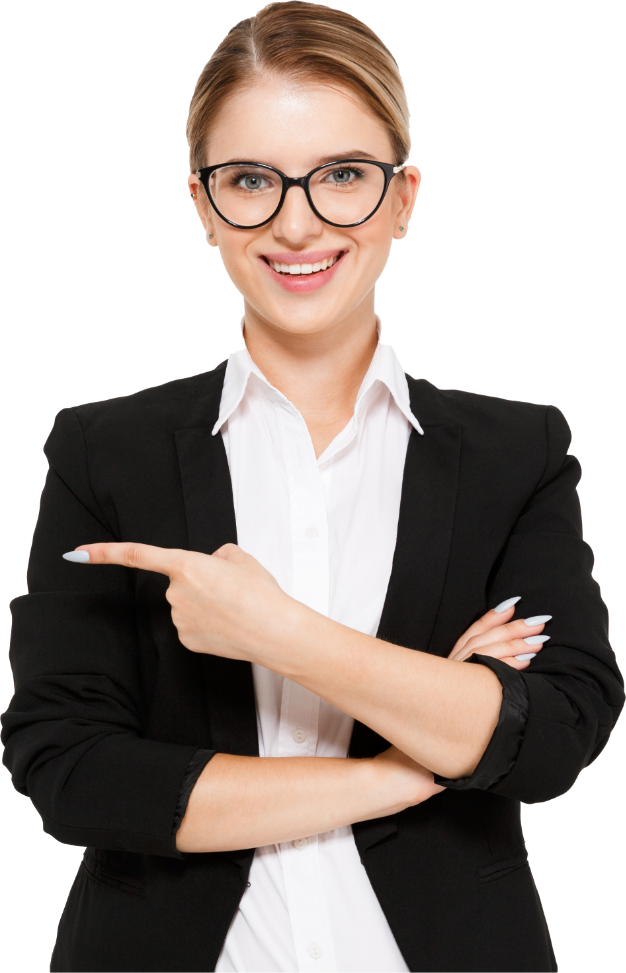
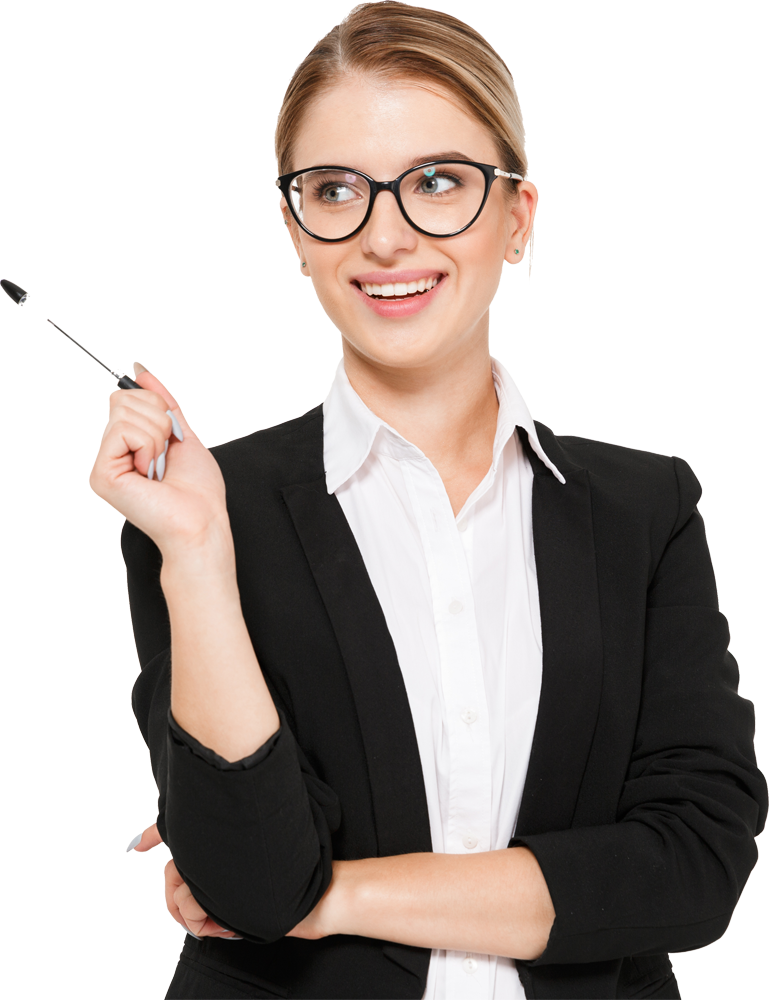
Hero section images are updated

diff --git a/demo/category/retirement.html b/demo/category/retirement.html
@@ -135,26 +135,25 @@
       </div>
     </nav>
   </div>
-  <section class="bg-primary-alt text-center has-divider header-desktop-app">
-    <div class="container">
-      <div class="row justify-content-center">
-        <div class="col-md-11 text-center">
-            <h1 class="display-4 text-primary ">Retirement Planning</h1>
-            <p class="lead text-black-50">Plan your retirement life with our valuable investing plans</p>
-           
-          </div>
-      </div>
-      <div class="row justify-content-center mt-6 aos-init aos-animate" data-aos="fade-up" data-delay="100">
-        <div class="col-lg-10">
-          <img src="../assets/img/mong/retirement-hero.jpg" alt="Image" class="rounded shadow-lg">
+
+  <section class="bg-primary-alt pt-3 pb-0">
+    <!-- <img src="assets/img/mong/hero-advisor-img.png" alt="Image" class="hero_image"> -->
+    <div class="container pt-1">
+      <div class="row align-items-center justify-content-between o-hidden">
+        <!-- <div class="col-md-6 order-sm-2 mb-5 mb-sm-0" data-aos="fade-left">
+          <img src="assets/img/mong/hero-banner.png" alt="Image">
+        </div> -->
+        <div class="col-md-6 pr-xl-5 order-sm-1 text-center text-lg-left text-md-left">
+          <h1 class="display-4 text-primary">Retirement Planning</h1>
+          <p class="lead text-black-50 w-75">Plan your retirement life with our valuable investing plans</p>
+         
+        </div>
+        <div class="col-md-6 order-sm-2">
+          <img src="../assets/img/mong/retirement-hero.png" alt="Image" class="">
         </div>
       </div>
     </div>
-    <div class="divider">
-      <svg width="100%" height="96px" viewBox="0 0 100 100" version="1.1" xmlns="http://www.w3.org/2000/svg" xmlns:xlink="http://www.w3.org/1999/xlink" preserveAspectRatio="none">
-        <path d="M0,0 C16.6666667,66 33.3333333,99 50,99 C66.6666667,99 83.3333333,66 100,0 L100,100 L0,100 L0,0 Z"></path>
-      </svg>
-    </div>
+   
   </section>
 
   <section class="pb-0 pb-md-6  position-relative">
@@ -347,7 +346,7 @@
       </div>
   </section>
 
-  <section class="bg-primary-3 o-hidden has-divider">
+  <!-- <section class="bg-primary-3 o-hidden has-divider">
     <div class="container pb-4 text-light">
       <div class="row justify-content-center text-center mb-5">
         <div class="col-xl-8 col-lg-9">
@@ -445,7 +444,7 @@
         <path d="M0,0 C16.6666667,66 33.3333333,99 50,99 C66.6666667,99 83.3333333,66 100,0 L100,100 L0,100 L0,0 Z"></path>
       </svg>
     </div>
-  </section>
+  </section> -->
 
   <section class="pb-7 pb-md-6 pt-7">
     <div class="container">
@@ -554,7 +553,7 @@
 
         <div class="col-lg-5 mt-3 mt-lg-0">
           <img src="../assets/img/mong/monietalk-logo.png" alt="Image" class="" style="width: 140px;margin-bottom: 8px;">
-          <p class="" style=" margin-bottom: 10px;"> Our Mission is to help people achieve financial security and maximize wealth. We strive to achieve this by empowering average person to find the right trusted advisor and by providing advanced tools to advisors.</p>
+          <p class="" style=" margin-bottom: 10px;"> Our Mission is to help people achieve financial security and maximize wealth. We strive to achieve this by empowering everyone to find the right trusted advisor and by providing advanced tools to advisors.</p>
           <p class="" >Monietalk and 720 Worldwide Inc are not affiliated of any financial institution.</p>
         </div>
         <div class="col-lg-4 text-justify">

diff --git a/demo/category/insurance.html b/demo/category/insurance.html
@@ -135,26 +135,25 @@
       </div>
     </nav>
   </div>
-  <section class="bg-primary-alt text-center has-divider header-desktop-app">
-    <div class="container">
-      <div class="row justify-content-center">
-        <div class="col-md-11 text-center">
-            <h1 class="display-4 text-primary ">Insurance</h1>
-            <p class="lead text-black-50">Ensure all round protection by a brand trusted by millions!</p>
-           
-          </div>
-      </div>
-      <div class="row justify-content-center mt-6 aos-init aos-animate" data-aos="fade-up" data-delay="100">
-        <div class="col-lg-10">
-          <img src="../assets/img/mong/insurance-hero.jpg" alt="Image" class="rounded shadow-lg">
+
+  <section class="bg-primary-alt pt-3 pb-0">
+    <!-- <img src="assets/img/mong/hero-advisor-img.png" alt="Image" class="hero_image"> -->
+    <div class="container pt-1">
+      <div class="row align-items-center justify-content-between o-hidden">
+        <!-- <div class="col-md-6 order-sm-2 mb-5 mb-sm-0" data-aos="fade-left">
+          <img src="assets/img/mong/hero-banner.png" alt="Image">
+        </div> -->
+        <div class="col-md-6 pr-xl-5 order-sm-1 text-center text-lg-left text-md-left">
+          <h1 class="display-4 text-primary">Insurance</h1>
+          <p class="lead text-black-50 w-75">Ensure all round protection by a brand trusted by millions!</p>
+         
+        </div>
+        <div class="col-md-6 order-sm-2">
+          <img src="../assets/img/mong/insurance-hero.png" alt="Image" class="">
         </div>
       </div>
     </div>
-    <div class="divider">
-      <svg width="100%" height="96px" viewBox="0 0 100 100" version="1.1" xmlns="http://www.w3.org/2000/svg" xmlns:xlink="http://www.w3.org/1999/xlink" preserveAspectRatio="none">
-        <path d="M0,0 C16.6666667,66 33.3333333,99 50,99 C66.6666667,99 83.3333333,66 100,0 L100,100 L0,100 L0,0 Z"></path>
-      </svg>
-    </div>
+   
   </section>
 
   <section class="pb-0 pb-md-6  position-relative">
@@ -347,7 +346,7 @@
       </div>
   </section>
 
-  <section class="bg-primary-3 o-hidden has-divider">
+  <!-- <section class="bg-primary-3 o-hidden has-divider">
     <div class="container pb-4 text-light">
       <div class="row justify-content-center text-center mb-5">
         <div class="col-xl-8 col-lg-9">
@@ -445,7 +444,7 @@
         <path d="M0,0 C16.6666667,66 33.3333333,99 50,99 C66.6666667,99 83.3333333,66 100,0 L100,100 L0,100 L0,0 Z"></path>
       </svg>
     </div>
-  </section>
+  </section> -->
 
   <section class="pb-7 pb-md-6 pt-7">
     <div class="container">
@@ -554,7 +553,7 @@
 
         <div class="col-lg-5 mt-3 mt-lg-0">
           <img src="../assets/img/mong/monietalk-logo.png" alt="Image" class="" style="width: 140px;margin-bottom: 8px;">
-          <p class="" style=" margin-bottom: 10px;"> Our Mission is to help people achieve financial security and maximize wealth. We strive to achieve this by empowering average person to find the right trusted advisor and by providing advanced tools to advisors.</p>
+          <p class="" style=" margin-bottom: 10px;"> Our Mission is to help people achieve financial security and maximize wealth. We strive to achieve this by empowering everyone to find the right trusted advisor and by providing advanced tools to advisors.</p>
           <p class="" >Monietalk and 720 Worldwide Inc are not affiliated of any financial institution.</p>
         </div>
         <div class="col-lg-4 text-justify">

diff --git a/demo/become-associate.html b/demo/become-associate.html
@@ -131,30 +131,25 @@
     </nav>
   </div>
 
-
-  <section class="bg-primary-alt text-light text-center has-divider header-desktop-app">
-    <div class="container">
-      <div class="row justify-content-center">
-        <div class="col-md-11 text-center">
-            <h1 class="display-4 text-primary ">Join a team of motivated planners who care about your growth</h1>
-            <p class="lead text-black-50 ">Join us and be a part of a better model. It stands out because of all the ways it empowers you to overcome barriers, serve your clients, and reach your full potential.</p>
-           
-          </div>
-      </div>
-      <div class="row justify-content-center mt-6 aos-init aos-animate" data-aos="fade-up" data-delay="100">
-        <div class="col-lg-10">
-          <img src="assets/img/mong/banner-meeting.jpg" alt="Image" class="rounded shadow-lg">
+  <section class="bg-primary-alt pt-3 pb-0">
+    <!-- <img src="assets/img/mong/hero-advisor-img.png" alt="Image" class="hero_image"> -->
+    <div class="container pt-1">
+      <div class="row align-items-center justify-content-between o-hidden">
+        <!-- <div class="col-md-6 order-sm-2 mb-5 mb-sm-0" data-aos="fade-left">
+          <img src="assets/img/mong/hero-banner.png" alt="Image">
+        </div> -->
+        <div class="col-md-7 pr-xl-5 order-sm-1 text-center text-lg-left text-md-left">
+          <h1 class="display-4 text-primary">Join a team of motivated planners who care about your growth</h1>
+          <p class="lead text-black-50 w-75">Join us and be a part of a better model. It stands out because of all the ways it empowers you to overcome barriers, serve your clients, and reach your full potential.</p>
+         
+        </div>
+        <div class="col-md-5 order-sm-2">
+          <img src="assets/img/mong/become-advisor-hero1.png" alt="Image" class="mt-5">
         </div>
       </div>
     </div>
-    <div class="divider">
-      <svg width="100%" height="96px" viewBox="0 0 100 100" version="1.1" xmlns="http://www.w3.org/2000/svg" xmlns:xlink="http://www.w3.org/1999/xlink" preserveAspectRatio="none">
-        <path d="M0,0 C16.6666667,66 33.3333333,99 50,99 C66.6666667,99 83.3333333,66 100,0 L100,100 L0,100 L0,0 Z"></path>
-      </svg>
-    </div>
+   
   </section>
-
-
 
   <section class="position-relative" id="benefits">
    
@@ -373,7 +368,7 @@
 
         <div class="col-lg-5 mt-3 mt-lg-0">
           <img src="assets/img/mong/monietalk-logo.png" alt="Image" class="" style="width: 140px;margin-bottom: 8px;">
-          <p class="" style=" margin-bottom: 10px;"> Our Mission is to help people achieve financial security and maximize wealth. We strive to achieve this by empowering average person to find the right trusted advisor and by providing advanced tools to advisors.</p>
+          <p class="" style=" margin-bottom: 10px;"> Our Mission is to help people achieve financial security and maximize wealth. We strive to achieve this by empowering everyone to find the right trusted advisor and by providing advanced tools to advisors.</p>
           <p class="" >Monietalk and 720 Worldwide Inc are not affiliated of any financial institution.</p>
         </div>
         <div class="col-lg-4 text-justify">

diff --git a/demo/index-backup.html b/demo/index-backup.html
@@ -315,7 +315,7 @@
 
         <div class="col-lg-5 mt-3 mt-lg-0">
           <img src="assets/img/mong/monietalk-logo.png" alt="Image" class="" style="width: 140px;margin-bottom: 8px;">
-          <p class="lead" style="font-size: 1.20rem; margin-bottom: 10px;"> Our Mission is to help people achieve financial security and maximize wealth. We strive to achieve this by empowering average person to find the right trusted advisor and by providing advanced tools to advisors.</p>
+          <p class="lead" style="font-size: 1.20rem; margin-bottom: 10px;"> Our Mission is to help people achieve financial security and maximize wealth. We strive to achieve this by empowering everyone to find the right trusted advisor and by providing advanced tools to advisors.</p>
           <p class="lead" style="font-size: 1.20rem;">Monietalk and 720 Worldwide Inc are not affiliated of any financial institution.</p>
         </div>
         <div class="col-lg-4 text-justify">

diff --git a/demo/for-advisors.html b/demo/for-advisors.html
@@ -610,7 +610,7 @@
 
         <div class="col-lg-5 mt-3 mt-lg-0">
           <img src="assets/img/mong/monietalk-logo.png" alt="Image" class="" style="width: 140px;margin-bottom: 8px;">
-          <p class="" style=" margin-bottom: 10px;"> Our Mission is to help people achieve financial security and maximize wealth. We strive to achieve this by empowering average person to find the right trusted advisor and by providing advanced tools to advisors.</p>
+          <p class="" style=" margin-bottom: 10px;"> Our Mission is to help people achieve financial security and maximize wealth. We strive to achieve this by empowering everyone to find the right trusted advisor and by providing advanced tools to advisors.</p>
           <p class="" >Monietalk and 720 Worldwide Inc are not affiliated of any financial institution.</p>
         </div>
         <div class="col-lg-4 text-justify">

diff --git a/demo/index.html b/demo/index.html
@@ -338,7 +338,7 @@
 
         <div class="col-lg-5 mt-3 mt-lg-0">
           <img src="assets/img/mong/monietalk-logo.png" alt="Image" class="" style="width: 140px;margin-bottom: 8px;">
-          <p class="" style=" margin-bottom: 10px;"> Our Mission is to help people achieve financial security and maximize wealth. We strive to achieve this by empowering average person to find the right trusted advisor and by providing advanced tools to advisors.</p>
+          <p class="" style=" margin-bottom: 10px;"> Our Mission is to help people achieve financial security and maximize wealth. We strive to achieve this by empowering everyone to find the right trusted advisor and by providing advanced tools to advisors.</p>
           <p class="" >Monietalk and 720 Worldwide Inc are not affiliated of any financial institution.</p>
         </div>
         <div class="col-lg-4 text-justify">

diff --git a/demo/privacy.html b/demo/privacy.html
@@ -260,7 +260,7 @@
 
         <div class="col-lg-5 mt-3 mt-lg-0">
           <img src="assets/img/mong/monietalk-logo.png" alt="Image" class="" style="width: 140px;margin-bottom: 8px;">
-          <p class="" style=" margin-bottom: 10px;"> Our Mission is to help people achieve financial security and maximize wealth. We strive to achieve this by empowering average person to find the right trusted advisor and by providing advanced tools to advisors.</p>
+          <p class="" style=" margin-bottom: 10px;"> Our Mission is to help people achieve financial security and maximize wealth. We strive to achieve this by empowering everyone to find the right trusted advisor and by providing advanced tools to advisors.</p>
           <p class="" >Monietalk and 720 Worldwide Inc are not affiliated of any financial institution.</p>
         </div>
         <div class="col-lg-4 text-justify">

diff --git a/demo/terms.html b/demo/terms.html
@@ -331,7 +331,7 @@
 
         <div class="col-lg-5 mt-3 mt-lg-0">
           <img src="assets/img/mong/monietalk-logo.png" alt="Image" class="" style="width: 140px;margin-bottom: 8px;">
-          <p class="" style=" margin-bottom: 10px;"> Our Mission is to help people achieve financial security and maximize wealth. We strive to achieve this by empowering average person to find the right trusted advisor and by providing advanced tools to advisors.</p>
+          <p class="" style=" margin-bottom: 10px;"> Our Mission is to help people achieve financial security and maximize wealth. We strive to achieve this by empowering everyone to find the right trusted advisor and by providing advanced tools to advisors.</p>
           <p class="" >Monietalk and 720 Worldwide Inc are not affiliated of any financial institution.</p>
         </div>
         <div class="col-lg-4 text-justify">
